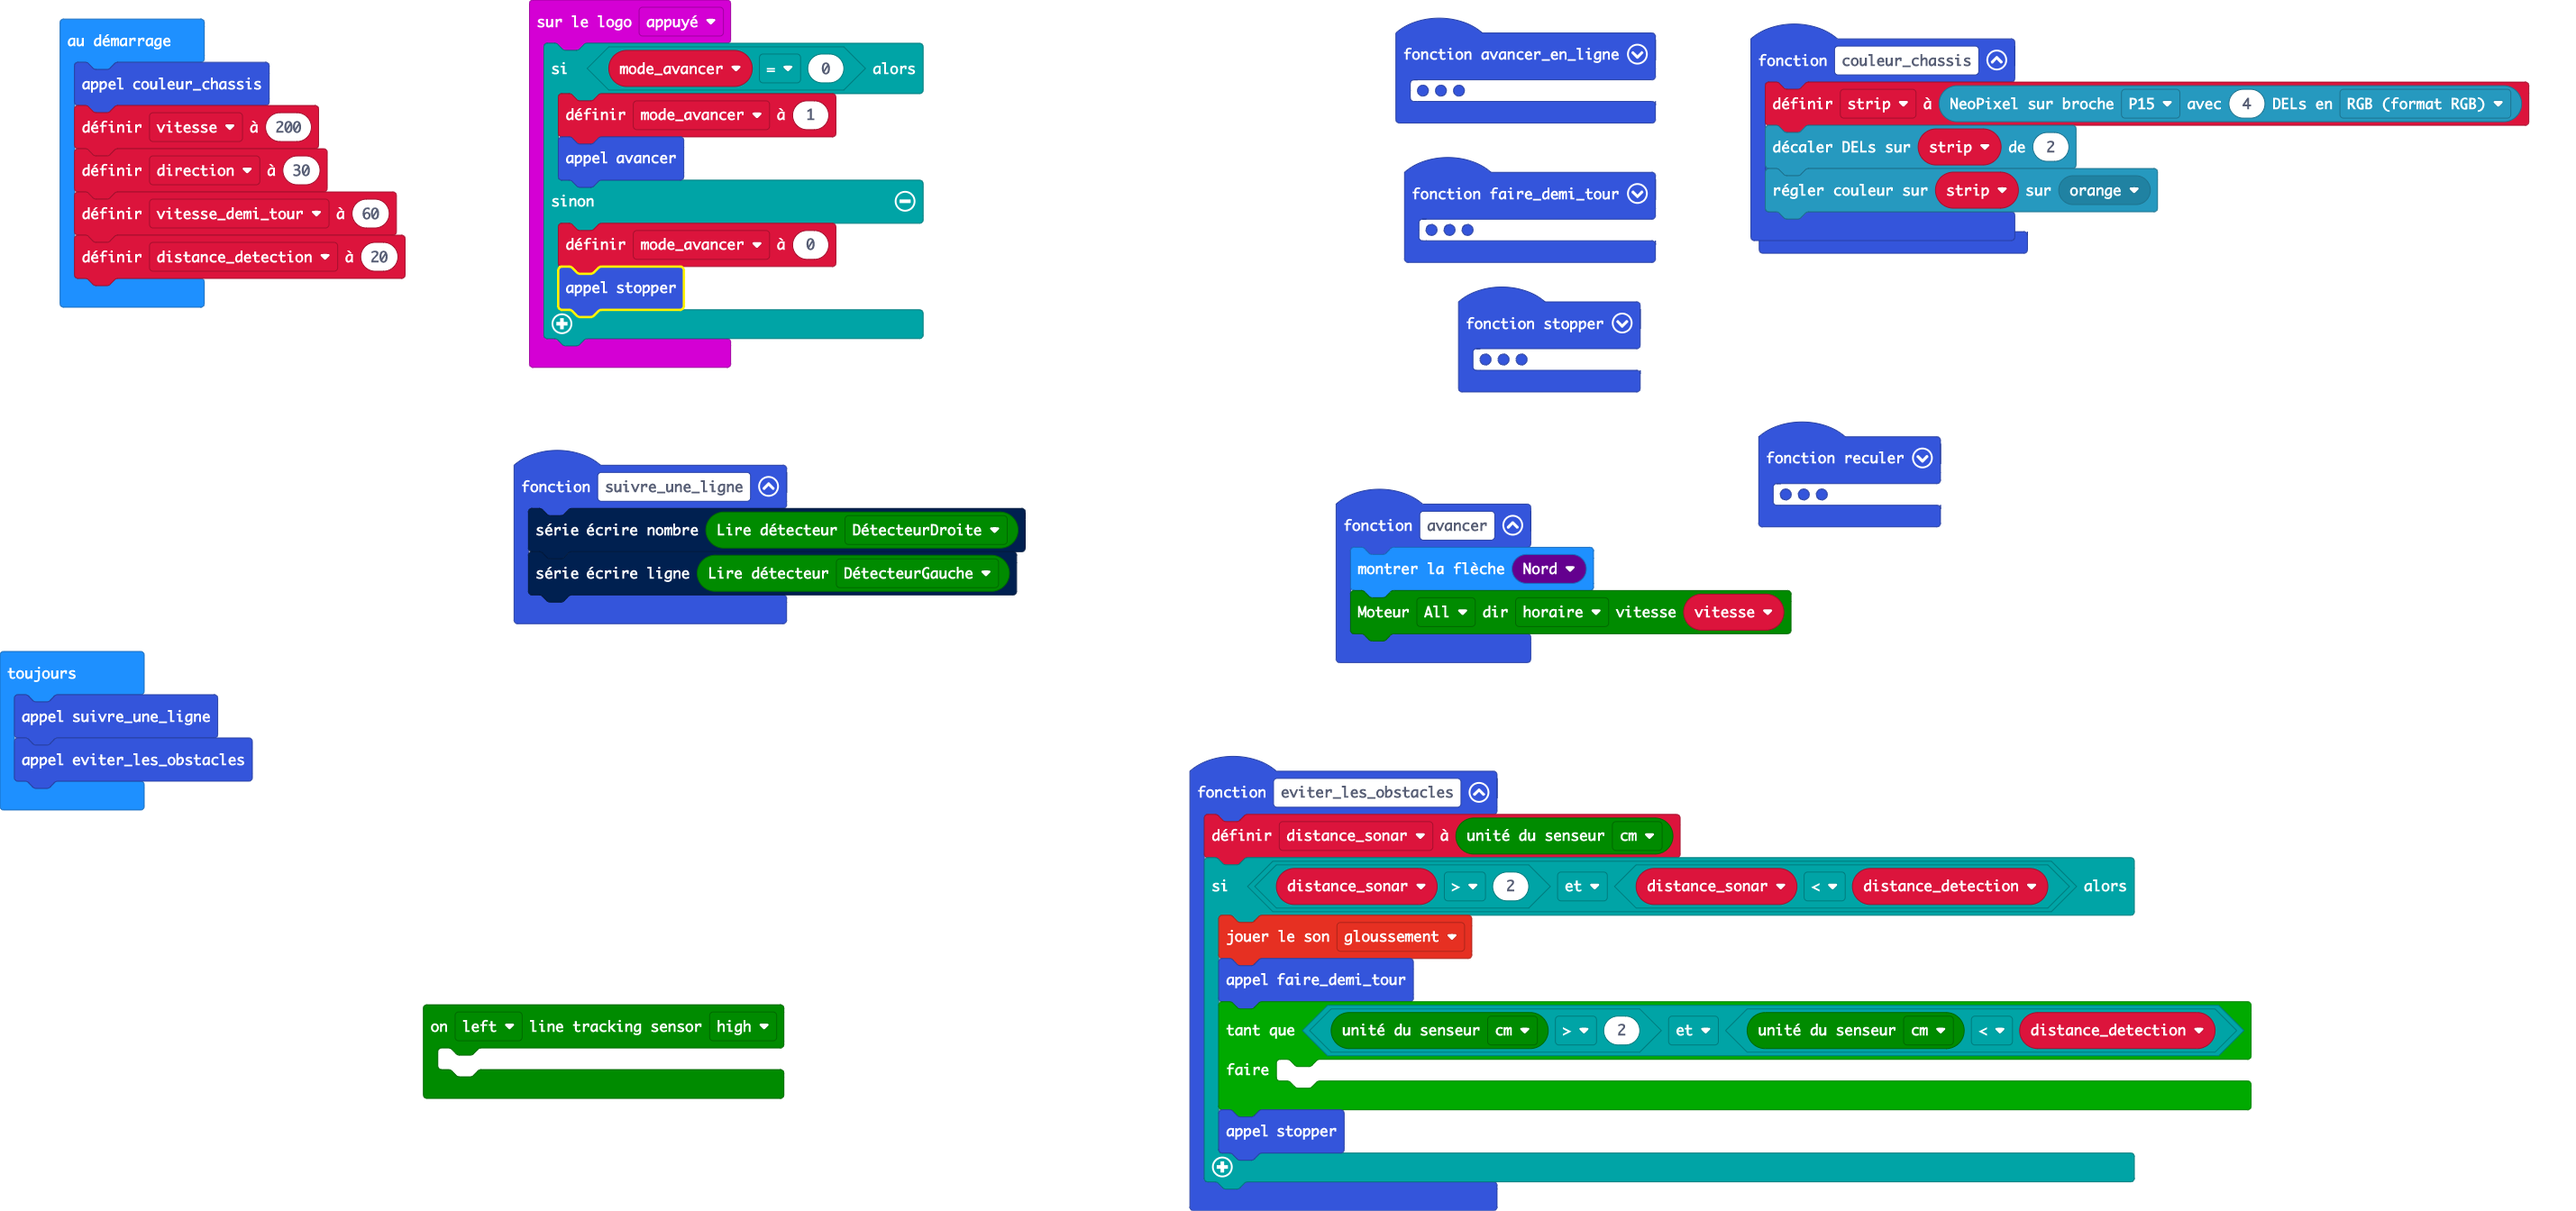
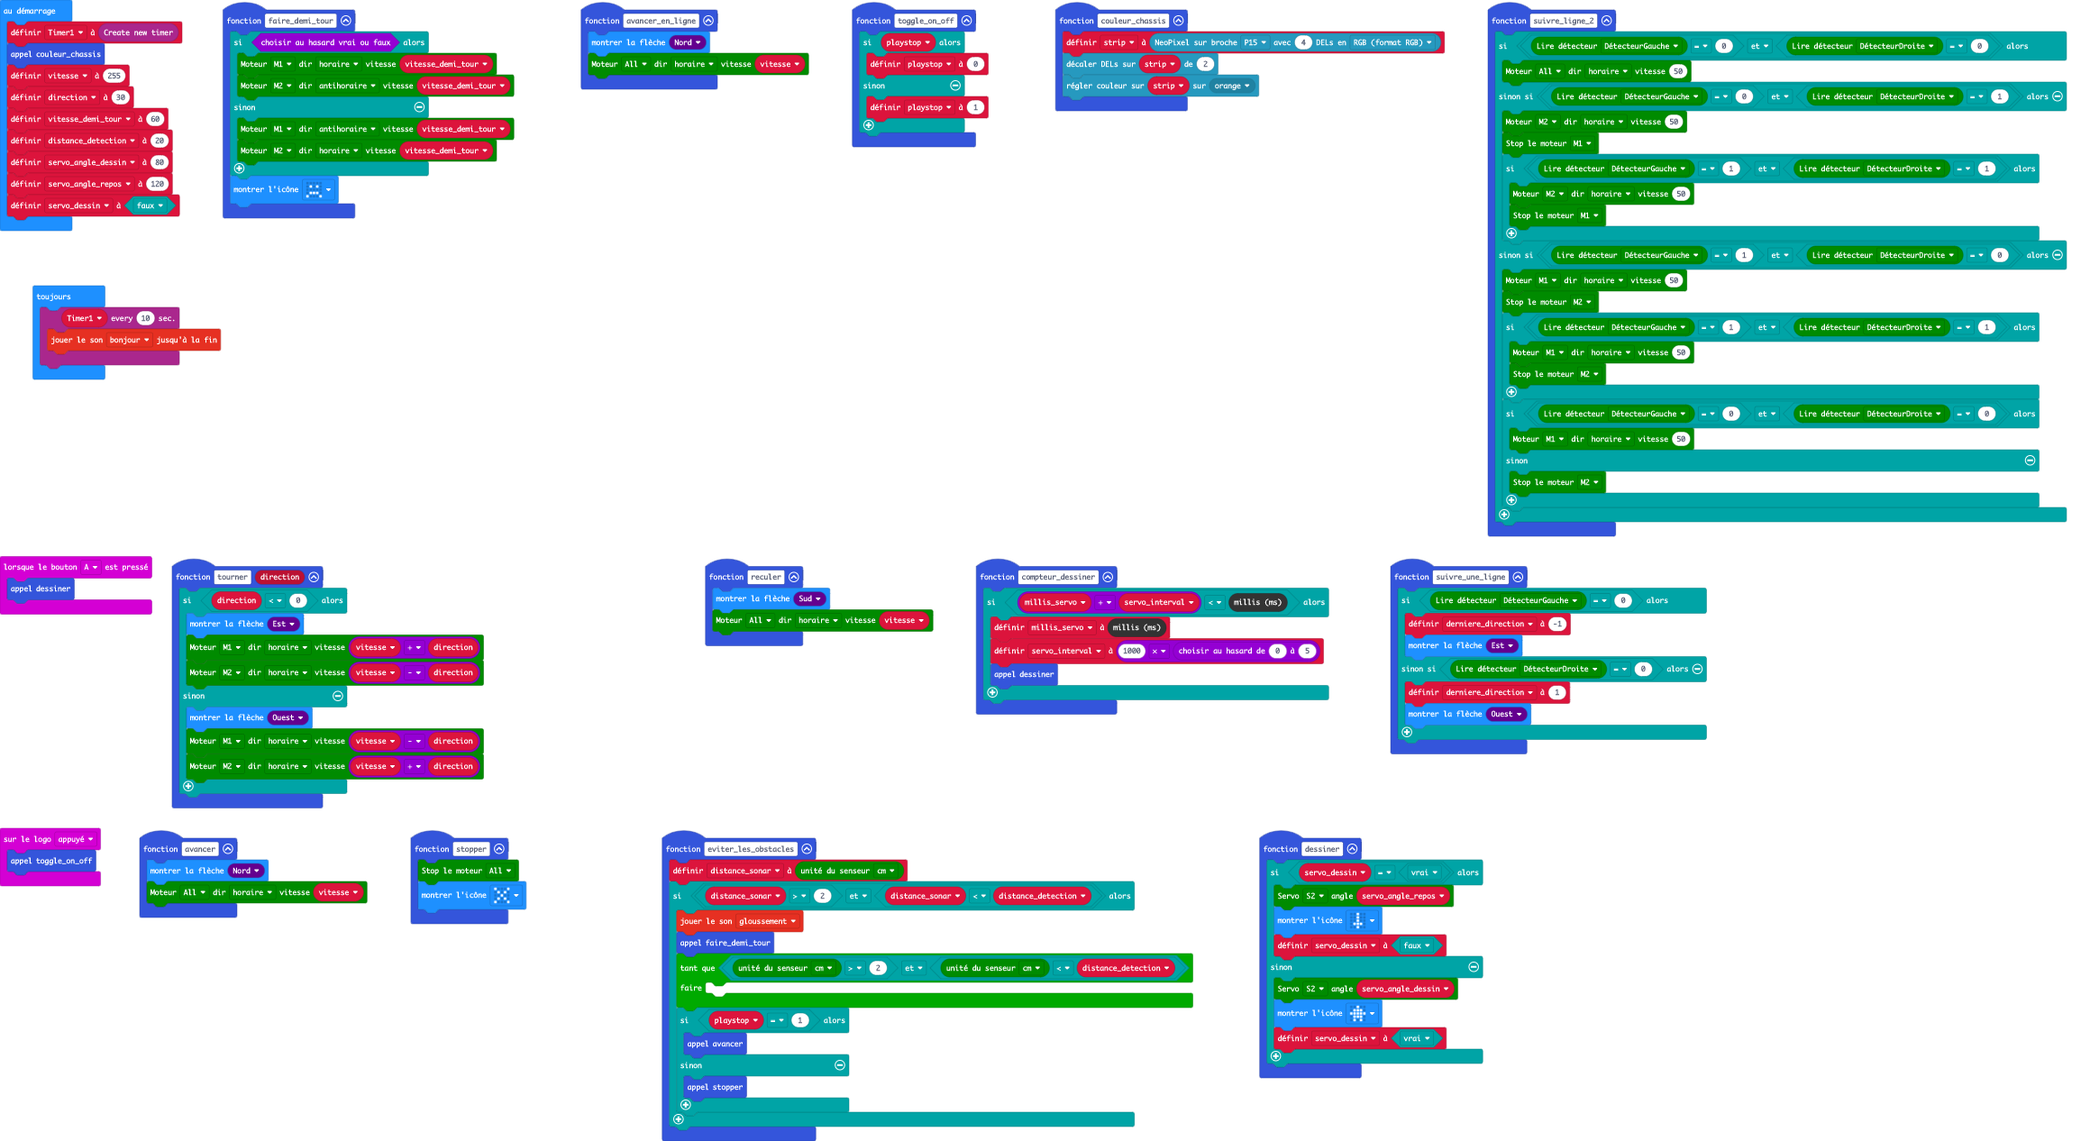
Mise à jour pxt.json, main.blocks, main.ts, main.py, counter.ts

diff --git a/main.ts b/main.ts
@@ -12,30 +12,67 @@ function avancer_en_ligne () {
     basic.showArrow(ArrowNames.North)
     maqueen.motorRun(maqueen.Motors.All, maqueen.Dir.CW, vitesse)
 }
+function toggle_on_off () {
+    if (playstop) {
+        playstop = 0
+    } else {
+        playstop = 1
+    }
+}
 function couleur_chassis () {
     strip = neopixel.create(DigitalPin.P15, 4, NeoPixelMode.RGB)
     strip.shift(2)
     strip.showColor(neopixel.colors(NeoPixelColors.Orange))
 }
+function suivre_ligne_2 () {
+    if (maqueen.readPatrol(maqueen.Patrol.PatrolLeft) == 0 && maqueen.readPatrol(maqueen.Patrol.PatrolRight) == 0) {
+        maqueen.motorRun(maqueen.Motors.All, maqueen.Dir.CW, 50)
+    } else if (maqueen.readPatrol(maqueen.Patrol.PatrolLeft) == 0 && maqueen.readPatrol(maqueen.Patrol.PatrolRight) == 1) {
+        maqueen.motorRun(maqueen.Motors.M2, maqueen.Dir.CW, 50)
+        maqueen.motorStop(maqueen.Motors.M1)
+        if (maqueen.readPatrol(maqueen.Patrol.PatrolLeft) == 1 && maqueen.readPatrol(maqueen.Patrol.PatrolRight) == 1) {
+            maqueen.motorRun(maqueen.Motors.M2, maqueen.Dir.CW, 50)
+            maqueen.motorStop(maqueen.Motors.M1)
+        }
+    } else if (maqueen.readPatrol(maqueen.Patrol.PatrolLeft) == 1 && maqueen.readPatrol(maqueen.Patrol.PatrolRight) == 0) {
+        maqueen.motorRun(maqueen.Motors.M1, maqueen.Dir.CW, 50)
+        maqueen.motorStop(maqueen.Motors.M2)
+        if (maqueen.readPatrol(maqueen.Patrol.PatrolLeft) == 1 && maqueen.readPatrol(maqueen.Patrol.PatrolRight) == 1) {
+            maqueen.motorRun(maqueen.Motors.M1, maqueen.Dir.CW, 50)
+            maqueen.motorStop(maqueen.Motors.M2)
+        }
+        if (maqueen.readPatrol(maqueen.Patrol.PatrolLeft) == 0 && maqueen.readPatrol(maqueen.Patrol.PatrolRight) == 0) {
+            maqueen.motorRun(maqueen.Motors.M1, maqueen.Dir.CW, 50)
+        } else {
+            maqueen.motorStop(maqueen.Motors.M2)
+        }
+    }
+}
+input.onButtonPressed(Button.A, function () {
+    dessiner()
+})
 function reculer () {
     basic.showArrow(ArrowNames.South)
     maqueen.motorRun(maqueen.Motors.All, maqueen.Dir.CW, vitesse)
 }
-maqueen.ltEvent(maqueen.Patrol1.PatrolLeft, maqueen.Voltage.High, function () {
-	
-})
+function compteur_dessiner () {
+    if (millis_servo + servo_interval < control.millis()) {
+        millis_servo = control.millis()
+        servo_interval = 1000 * randint(0, 5)
+        dessiner()
+    }
+}
 function suivre_une_ligne () {
-    serial.writeNumber(maqueen.readPatrol(maqueen.Patrol.PatrolRight))
-    serial.writeLine("" + (maqueen.readPatrol(maqueen.Patrol.PatrolLeft)))
+    if (maqueen.readPatrol(maqueen.Patrol.PatrolLeft) == 0) {
+        derniere_direction = -1
+        basic.showArrow(ArrowNames.East)
+    } else if (maqueen.readPatrol(maqueen.Patrol.PatrolRight) == 0) {
+        derniere_direction = 1
+        basic.showArrow(ArrowNames.West)
+    }
 }
 input.onLogoEvent(TouchButtonEvent.Pressed, function () {
-    if (mode_avancer == 0) {
-        mode_avancer = 1
-        avancer()
-    } else {
-        mode_avancer = 0
-        stopper()
-    }
+    toggle_on_off()
 })
 function avancer () {
     basic.showArrow(ArrowNames.North)
@@ -64,21 +101,47 @@ function eviter_les_obstacles () {
         while (maqueen.Ultrasonic(PingUnit.Centimeters) > 2 && maqueen.Ultrasonic(PingUnit.Centimeters) < distance_detection) {
         	
         }
-        stopper()
+        if (playstop == 1) {
+            avancer()
+        } else {
+            stopper()
+        }
+    }
+}
+function dessiner () {
+    if (servo_dessin == true) {
+        maqueen.servoRun(maqueen.Servos.S2, servo_angle_repos)
+        basic.showIcon(IconNames.Sword)
+        servo_dessin = false
+    } else {
+        maqueen.servoRun(maqueen.Servos.S2, servo_angle_dessin)
+        basic.showIcon(IconNames.House)
+        servo_dessin = true
     }
 }
 let distance_sonar = 0
-let mode_avancer = 0
+let derniere_direction = 0
+let servo_interval = 0
+let millis_servo = 0
 let strip: neopixel.Strip = null
+let playstop = 0
+let servo_dessin = false
+let servo_angle_repos = 0
+let servo_angle_dessin = 0
 let distance_detection = 0
 let vitesse_demi_tour = 0
 let vitesse = 0
+let Timer1 = Timers.createCounters()
 couleur_chassis()
-vitesse = 200
+vitesse = 255
 let direction = 30
 vitesse_demi_tour = 60
 distance_detection = 20
+servo_angle_dessin = 80
+servo_angle_repos = 120
+servo_dessin = false
 basic.forever(function () {
-    suivre_une_ligne()
-    eviter_les_obstacles()
+    Timer1.every_x_secs_inline(10, function () {
+        soundExpression.hello.playUntilDone()
+    })
 })

diff --git a/counter.ts b/counter.ts
@@ -1,0 +1,57 @@
+//% color="#AA278D"
+//% groups="['Create Timers', 'Use them']"
+namespace Timers {
+    //%
+    export class timer { 
+         millis:number;
+         constructor() {
+            this.millis = control.millis();
+         }
+        
+    //% block="$this(timer) every $interval sec."
+    public every_x_secs(interval: number,handler: () => void) {
+        if(this.millis + interval*1000 < control.millis()){
+            this.restart_timer();
+            handler();
+        }
+    }    
+    //% block="$this(timer) every $interval sec."
+    //% handlerStatement
+    public every_x_secs_inline(interval: number, handler: () => void) {
+        if(this.millis + interval*1000 < control.millis()){
+            this.restart_timer();
+            handler();
+        }
+    }
+    //% block="$this(timer) every $interval millis."
+    //% interval_ms.shadow="timePicker"
+    //% handlerStatement
+    public every_x_millis(interval_ms: number, handler: () => void) {
+        if(this.millis + interval_ms < control.millis()){
+             this.restart_timer();
+             handler();
+        }
+    }
+    //% block="$this(timer) restart timer"
+    public restart_timer() {
+        this.millis = control.millis();
+    }
+    
+    //% block="$this(timer) every $interval sec."
+    //% handlerStatement
+    public onEventAsStatement(interval: number, handler: () => void) {
+        if(this.millis + interval*1000 < control.millis()){
+             this.millis = control.millis();
+             handler();
+        }
+    }
+
+    }
+    //% group="Create Timers"
+    //% block="Create new timer"
+    //% blockSetVariable=Timer1
+    //% weight=100
+    export function createCounters(): timer {
+        return new timer();
+    }
+}

diff --git a/main.py b/main.py
@@ -9,15 +9,67 @@ def faire_demi_tour():
 def avancer_en_ligne():
     basic.show_arrow(ArrowNames.NORTH)
     maqueen.motor_run(maqueen.Motors.ALL, maqueen.Dir.CW, vitesse)
+def toggle_on_off():
+    global playstop
+    if playstop:
+        playstop = 0
+    else:
+        playstop = 1
 def couleur_chassis():
     global strip
     strip = neopixel.create(DigitalPin.P15, 4, NeoPixelMode.RGB)
-    strip.show_color(neopixel.colors(NeoPixelColors.WHITE))
-def suivre_la_ligne():
-    pass
+    strip.shift(2)
+    strip.show_color(neopixel.colors(NeoPixelColors.ORANGE))
+def suivre_ligne_2():
+    if maqueen.read_patrol(maqueen.Patrol.PATROL_LEFT) == 0 and maqueen.read_patrol(maqueen.Patrol.PATROL_RIGHT) == 0:
+        maqueen.motor_run(maqueen.Motors.ALL, maqueen.Dir.CW, 50)
+    elif maqueen.read_patrol(maqueen.Patrol.PATROL_LEFT) == 0 and maqueen.read_patrol(maqueen.Patrol.PATROL_RIGHT) == 1:
+        maqueen.motor_run(maqueen.Motors.M2, maqueen.Dir.CW, 50)
+        maqueen.motor_stop(maqueen.Motors.M1)
+        if maqueen.read_patrol(maqueen.Patrol.PATROL_LEFT) == 1 and maqueen.read_patrol(maqueen.Patrol.PATROL_RIGHT) == 1:
+            maqueen.motor_run(maqueen.Motors.M2, maqueen.Dir.CW, 50)
+            maqueen.motor_stop(maqueen.Motors.M1)
+    elif maqueen.read_patrol(maqueen.Patrol.PATROL_LEFT) == 1 and maqueen.read_patrol(maqueen.Patrol.PATROL_RIGHT) == 0:
+        maqueen.motor_run(maqueen.Motors.M1, maqueen.Dir.CW, 50)
+        maqueen.motor_stop(maqueen.Motors.M2)
+        if maqueen.read_patrol(maqueen.Patrol.PATROL_LEFT) == 1 and maqueen.read_patrol(maqueen.Patrol.PATROL_RIGHT) == 1:
+            maqueen.motor_run(maqueen.Motors.M1, maqueen.Dir.CW, 50)
+            maqueen.motor_stop(maqueen.Motors.M2)
+        if maqueen.read_patrol(maqueen.Patrol.PATROL_LEFT) == 0 and maqueen.read_patrol(maqueen.Patrol.PATROL_RIGHT) == 0:
+            maqueen.motor_run(maqueen.Motors.M1, maqueen.Dir.CW, 50)
+        else:
+            maqueen.motor_stop(maqueen.Motors.M2)
+
+def on_button_pressed_a():
+    dessiner()
+input.on_button_pressed(Button.A, on_button_pressed_a)
+
 def reculer():
     basic.show_arrow(ArrowNames.SOUTH)
     maqueen.motor_run(maqueen.Motors.ALL, maqueen.Dir.CW, vitesse)
+def compteur_inc():
+    global compteur
+    compteur = Math.floor(control.millis() / 1000)
+    serial.write_line("" + str((compteur)))
+def compteur_dessiner():
+    global millis_servo, servo_interval
+    if millis_servo + servo_interval < control.millis():
+        millis_servo = control.millis()
+        servo_interval = 1000 * randint(0, 5)
+        dessiner()
+def suivre_une_ligne():
+    global derniere_direction
+    if maqueen.read_patrol(maqueen.Patrol.PATROL_LEFT) == 0:
+        derniere_direction = -1
+        basic.show_arrow(ArrowNames.EAST)
+    elif maqueen.read_patrol(maqueen.Patrol.PATROL_RIGHT) == 0:
+        derniere_direction = 1
+        basic.show_arrow(ArrowNames.WEST)
+
+def on_logo_pressed():
+    toggle_on_off()
+input.on_logo_event(TouchButtonEvent.PRESSED, on_logo_pressed)
+
 def avancer():
     basic.show_arrow(ArrowNames.NORTH)
     maqueen.motor_run(maqueen.Motors.ALL, maqueen.Dir.CW, vitesse)
@@ -37,21 +89,47 @@ def eviter_les_obstacles():
     global distance_sonar
     distance_sonar = maqueen.ultrasonic(PingUnit.CENTIMETERS)
     if distance_sonar > 2 and distance_sonar < distance_detection:
+        soundExpression.giggle.play()
         faire_demi_tour()
         while maqueen.ultrasonic(PingUnit.CENTIMETERS) > 2 and maqueen.ultrasonic(PingUnit.CENTIMETERS) < distance_detection:
             pass
+        if playstop == 1:
+            avancer()
+        else:
+            stopper()
+def dessiner():
+    global servo_dessin
+    if servo_dessin == True:
+        maqueen.servo_run(maqueen.Servos.S2, servo_angle_repos)
+        basic.show_icon(IconNames.SWORD)
+        servo_dessin = False
+    else:
+        maqueen.servo_run(maqueen.Servos.S2, servo_angle_dessin)
+        basic.show_icon(IconNames.HOUSE)
+        servo_dessin = True
 distance_sonar = 0
+derniere_direction = 0
+servo_interval = 0
+millis_servo = 0
 strip: neopixel.Strip = None
+playstop = 0
+compteur = 0
+servo_dessin = False
+servo_angle_repos = 0
+servo_angle_dessin = 0
 distance_detection = 0
 vitesse_demi_tour = 0
 vitesse = 0
 couleur_chassis()
-vitesse = 60
+vitesse = 255
 direction = 30
 vitesse_demi_tour = 60
 distance_detection = 20
+servo_angle_dessin = 80
+servo_angle_repos = 120
+servo_dessin = False
+compteur = 0
 
 def on_forever():
-    avancer_en_ligne()
-    eviter_les_obstacles()
+    compteur_inc()
 basic.forever(on_forever)
